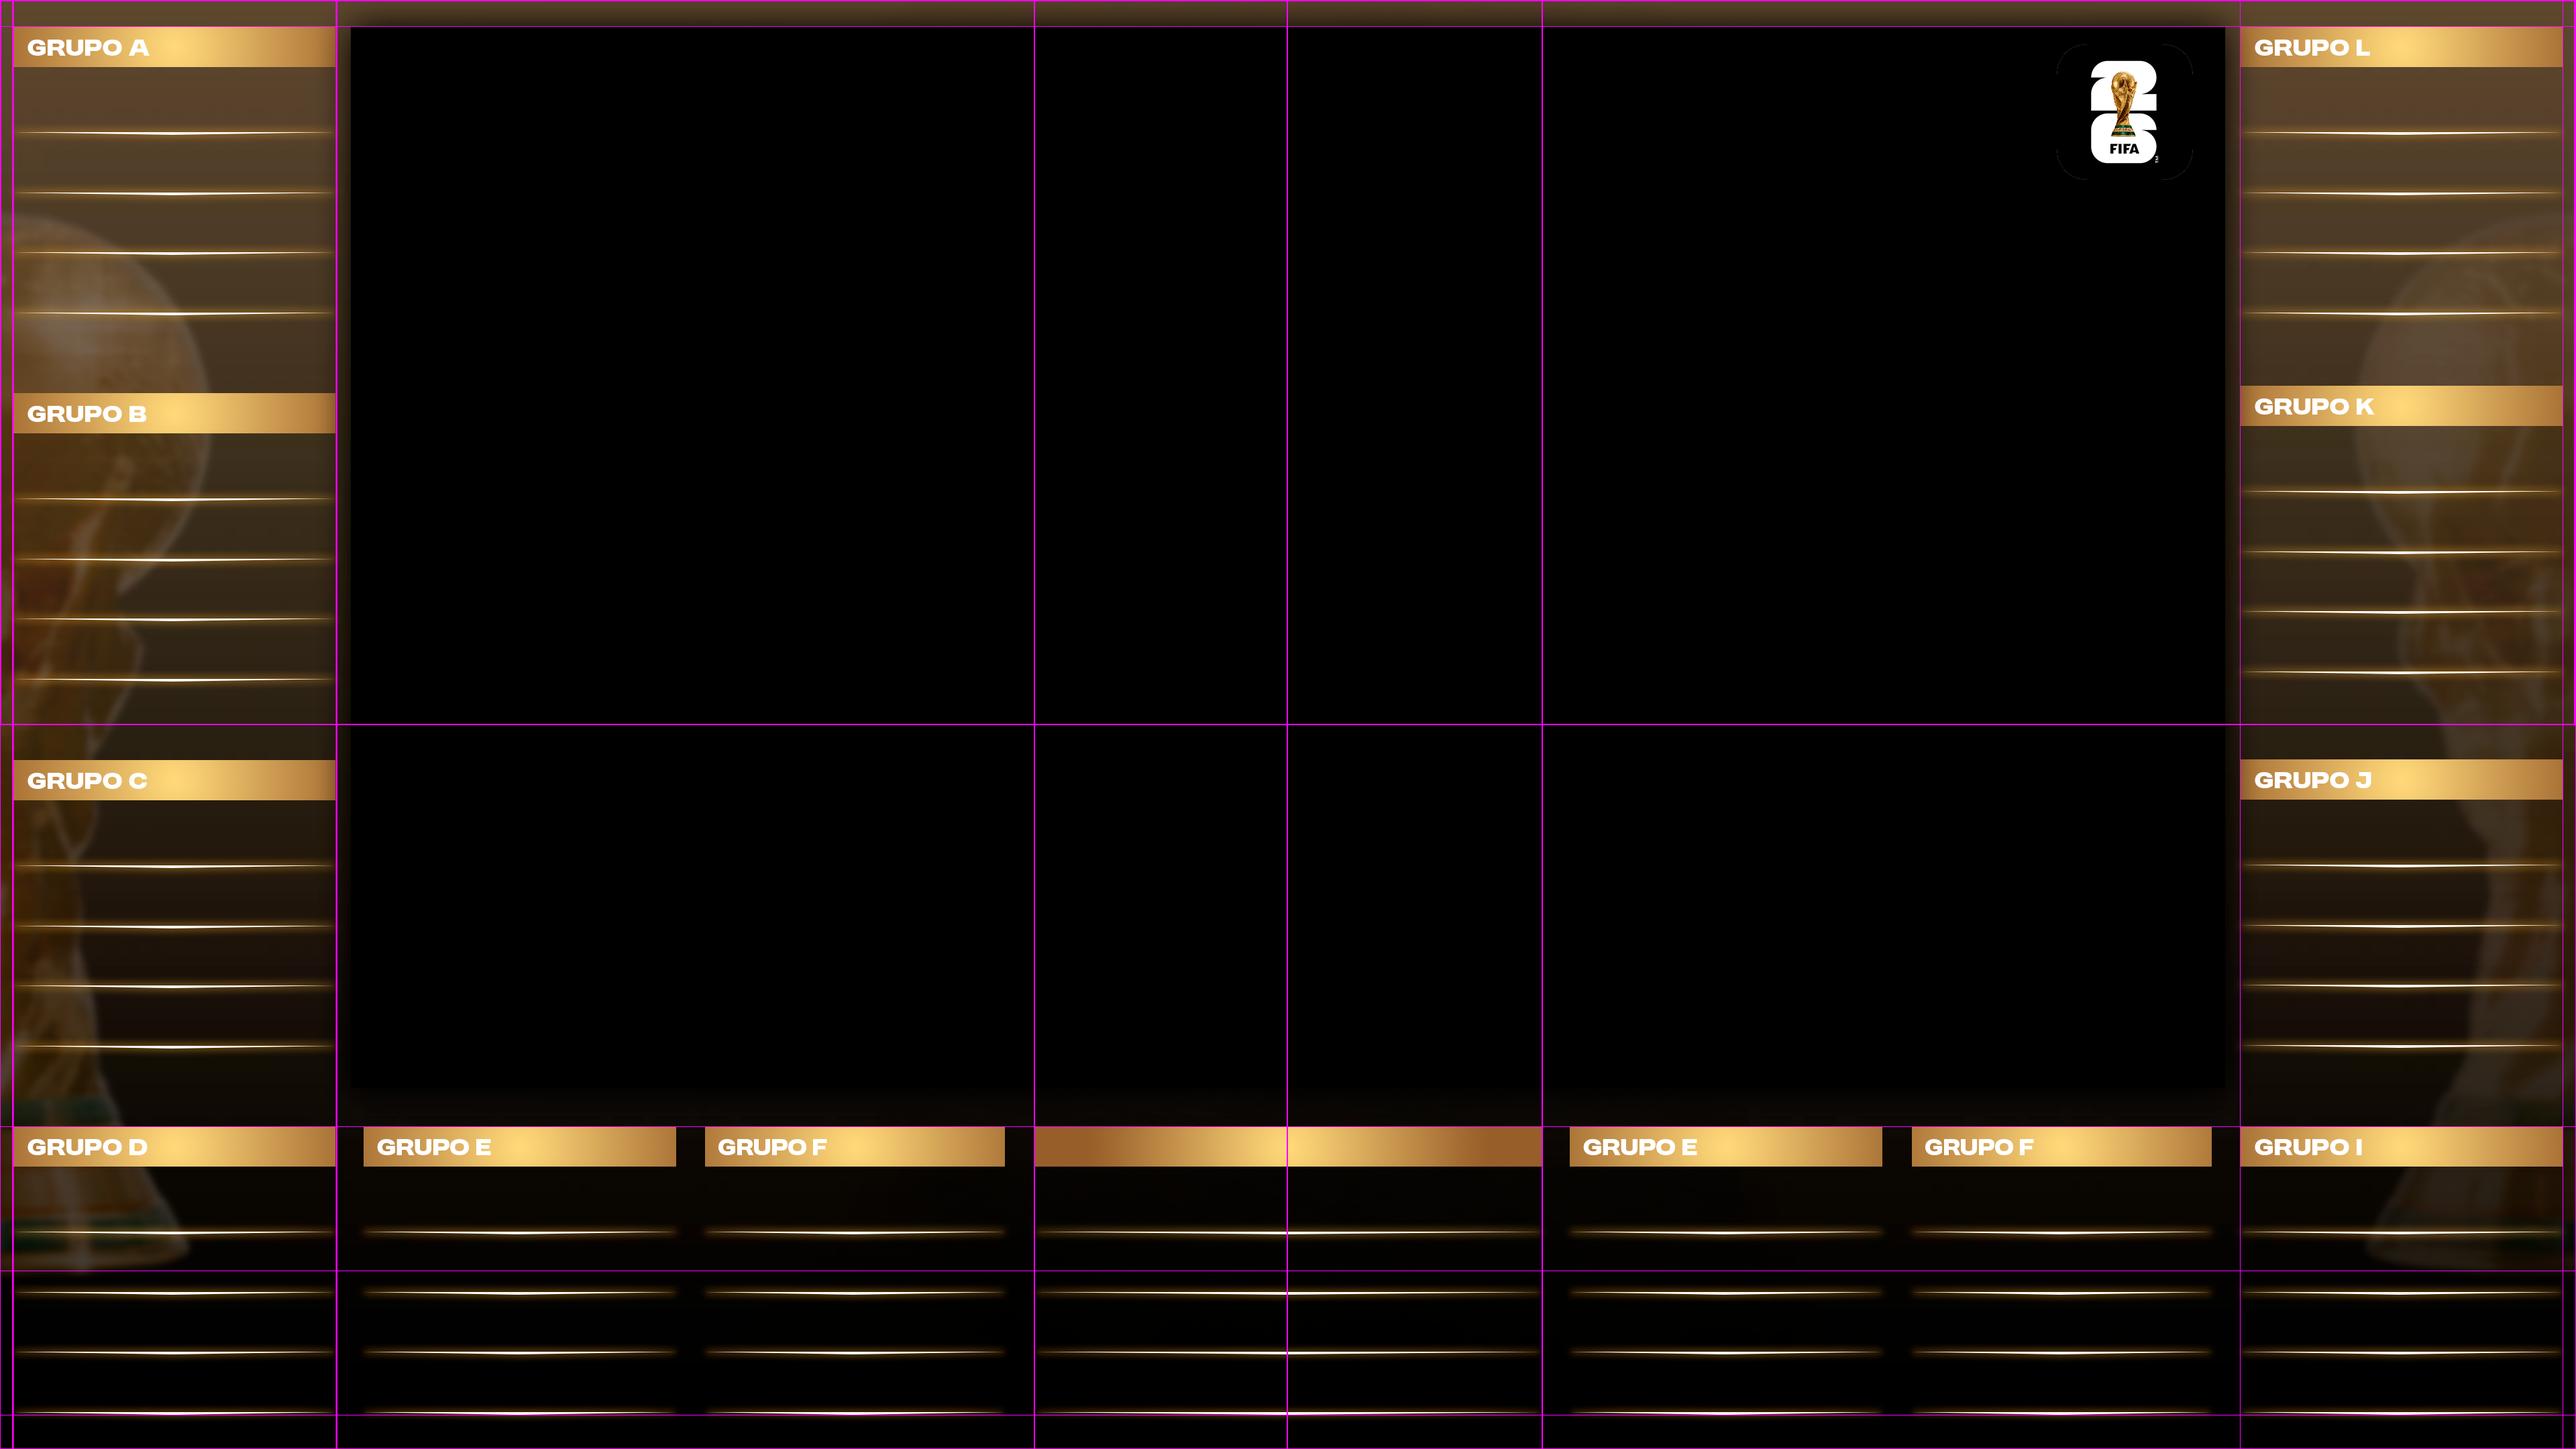
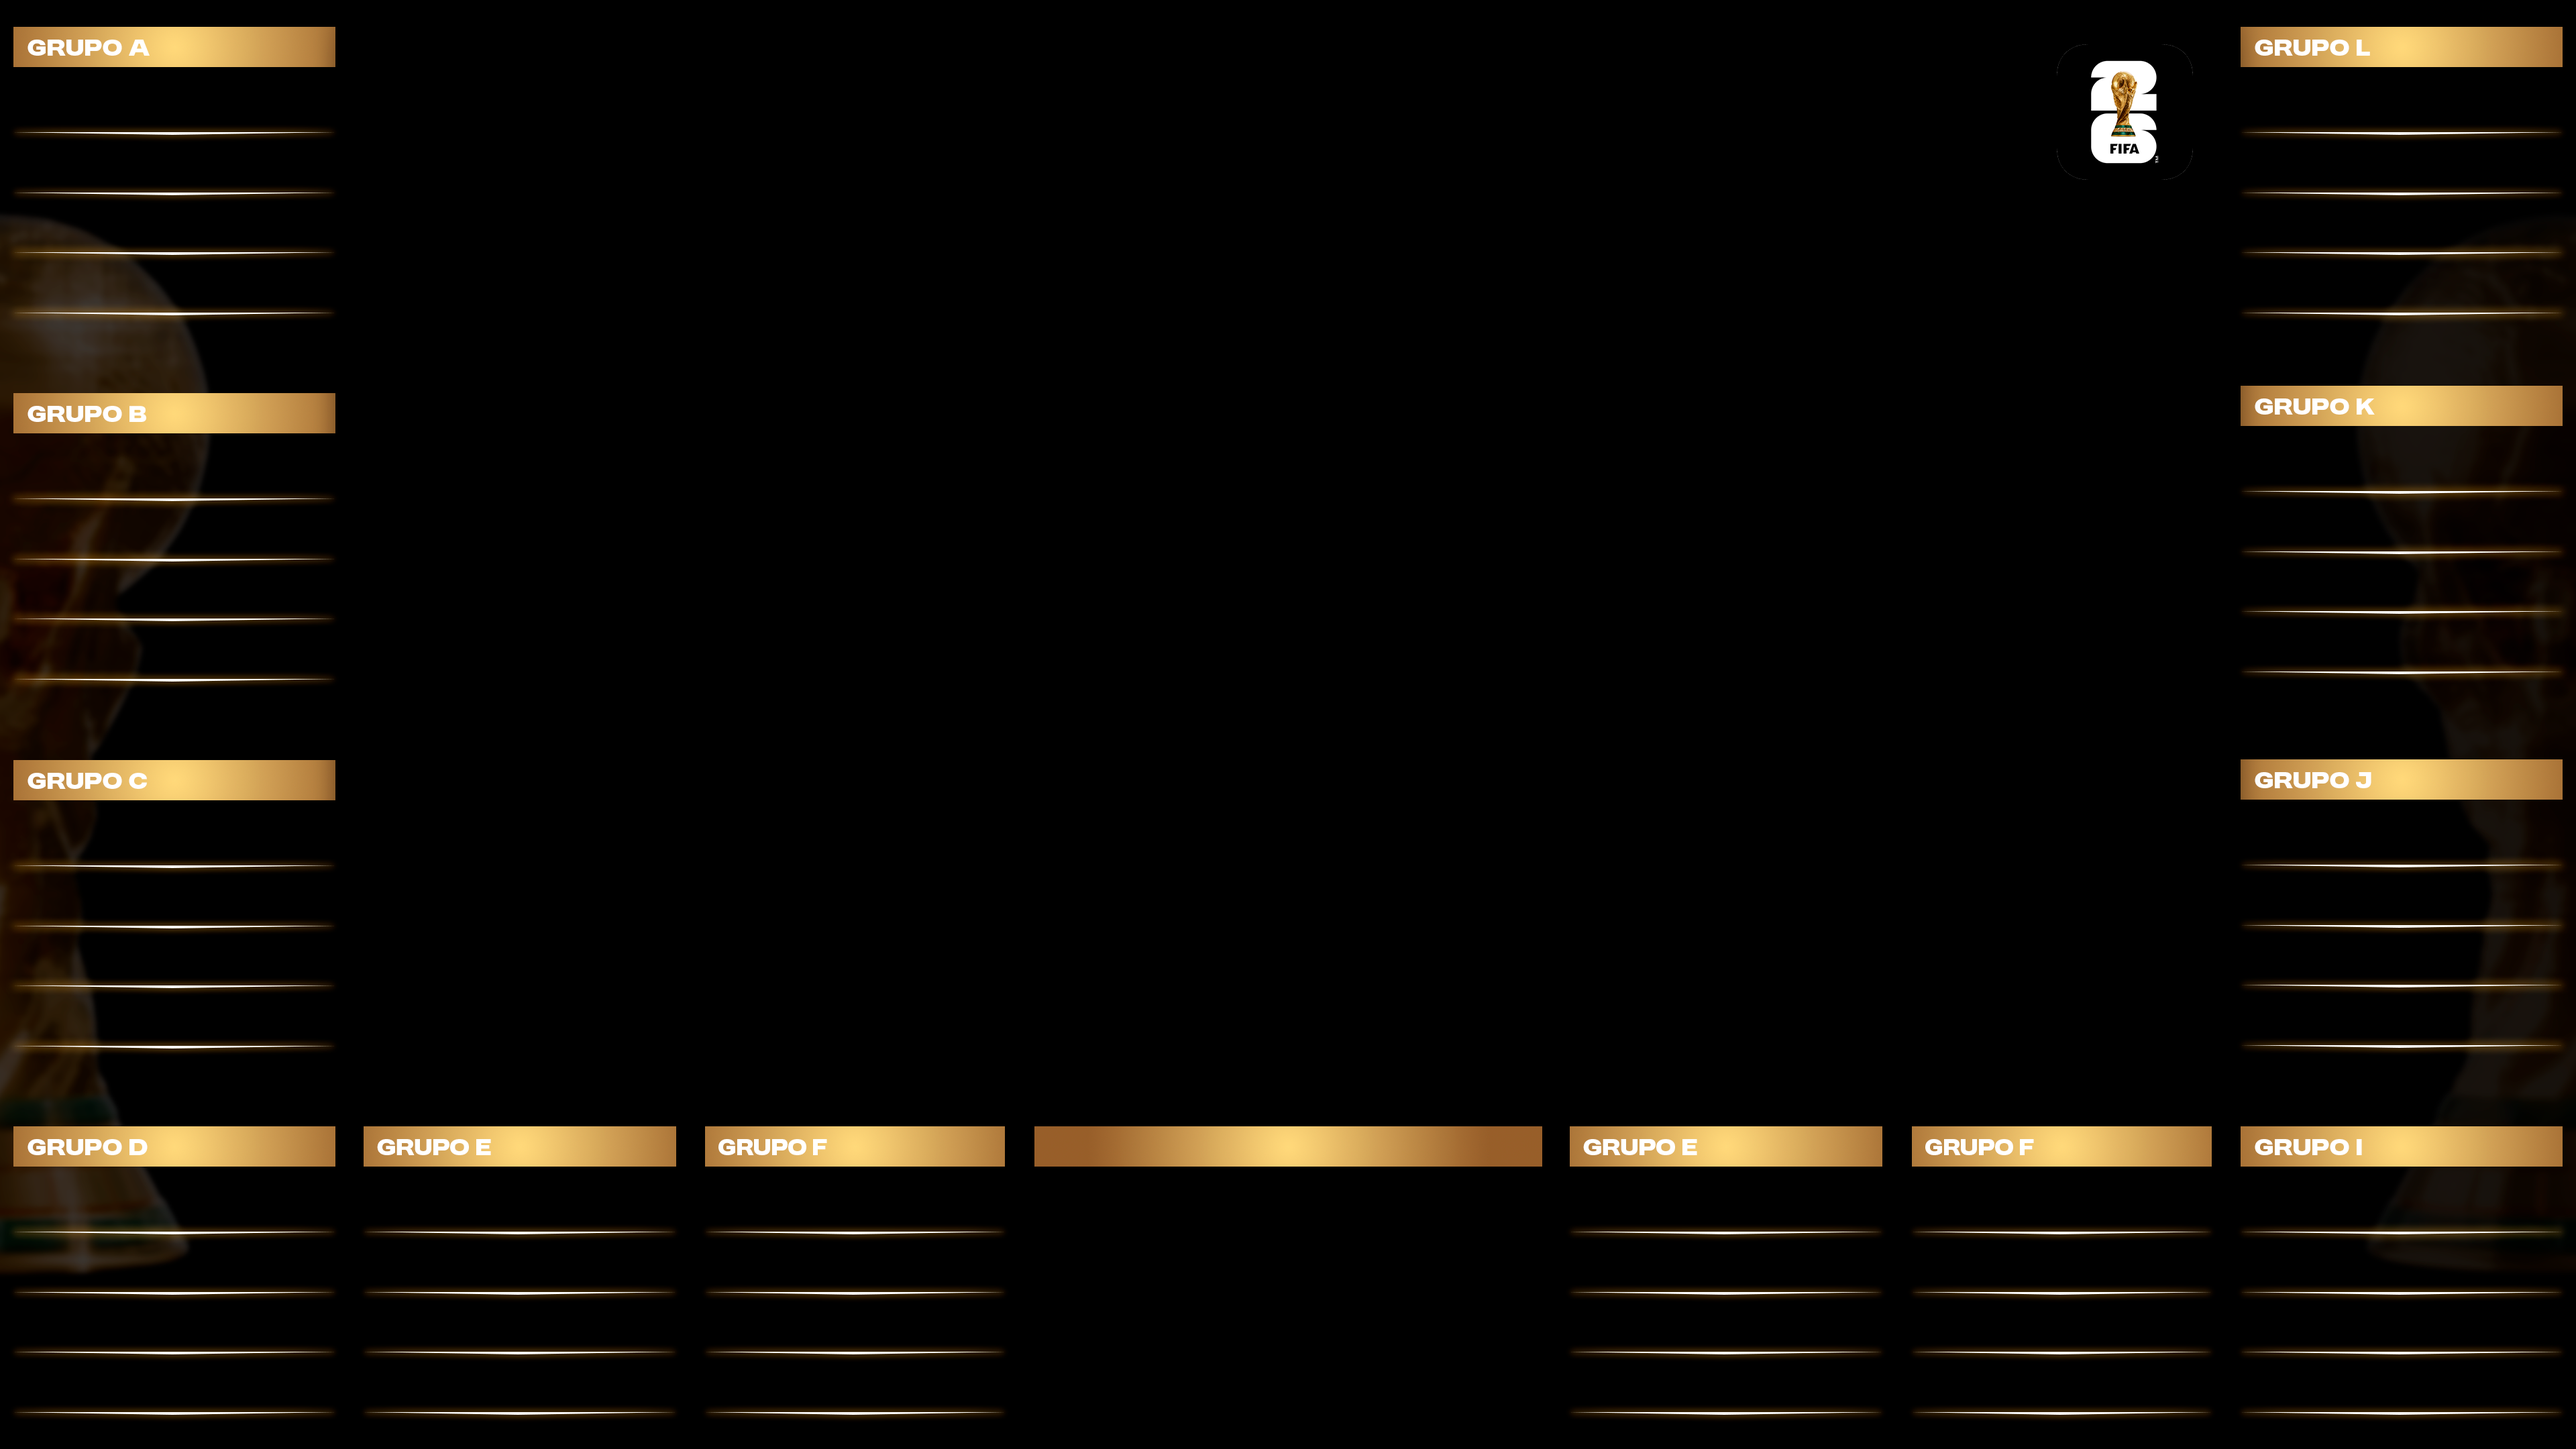
Add fade out animation to background image when highlighting a flag
Adjust column spacing in bombo-flags-config.json and add a new background image with transition styling in overlay3.html. Modify the updateCountryHighlight function to animate the opacity of the background lines image to 0 when a flag is highlighted and back to 1 when the highlight is removed.

Replit-Commit-Author: Agent
Replit-Commit-Session-Id: 3ed15278-3a04-4676-b10f-09ef550d9ef9
Replit-Commit-Checkpoint-Type: full_checkpoint
Replit-Commit-Event-Id: 688d1ccb-4b54-4acc-ac3c-0b43352c9d78
Replit-Commit-Screenshot-Url: https://storage.googleapis.com/screenshot-production-us-central1/7b43ac34-7df8-4c46-9ac8-5c713f8502e8/3ed15278-3a04-4676-b10f-09ef550d9ef9/bBvA5d0

Changed region(s): [[0.0, 0.0, 1.0, 0.7444], [0.4062, 0.9306, 0.5938, 0.9926], [0.4062, 0.8375, 0.5938, 0.8995]]

diff --git a/overlay3.html b/overlay3.html
@@ -291,6 +291,8 @@
 
     <!-- Imagen de fondo escalada de 3840x2160 a 1920x1080 -->
     <image id="background-image" x="0" y="0" width="1920" height="1080" href="/w2560/fondo.png" preserveAspectRatio="xMidYMid slice"/>
+    <image id="background-lines-bombos" x="0" y="0" width="1920" height="1080" href="/w2560/fondolineasbombos.png" opacity="1" preserveAspectRatio="xMidYMid slice" style="transition: opacity 0.6s ease;"/>
+
     <rect class="cls-17" width="1920" height="1080"/>
     <!-- Bombo 1 -->
     <g id="bombo-container-1" class="bombo-container" opacity="1">
@@ -947,6 +949,9 @@
       // Sufijo de IDs según el bombo actual
       const suffixForBombo = (b) => (b === 1 ? '' : `-b${b}`);
       const suffix = suffixForBombo(currentBombo);
+      
+      // Obtener referencia a la imagen de fondo de líneas
+      const backgroundLines = document.getElementById('background-lines-bombos');
 
       // 1) Apagar TODOS los rectángulos dorados de TODOS los bombos
       for (let b = 1; b <= 4; b++) {
@@ -1006,6 +1011,10 @@
 
       // 2) Si el panel manda null / undefined / -1 / fuera de rango → no mostrar nada
       if (typeof countryIndex !== 'number' || countryIndex < 0 || countryIndex >= 12) {
+        // Restaurar fondo de líneas (fade in)
+        if (backgroundLines) {
+          backgroundLines.setAttribute('opacity', '1');
+        }
         return;
       }
 
@@ -1031,6 +1040,11 @@
       // 5) Animar la bandera destacada al centro del bombo
       const highlightedFlag = document.getElementById(`bombo-flag-css-${countryIndex}${suffix}`);
       const teamText = document.getElementById(`bombo-team-${countryIndex}${suffix}`);
+      
+      // Hacer fade out del fondo de líneas cuando se destaca una bandera
+      if (backgroundLines) {
+        backgroundLines.setAttribute('opacity', '0');
+      }
       
       if (highlightedFlag) {
         // Ocultar el texto pequeño
